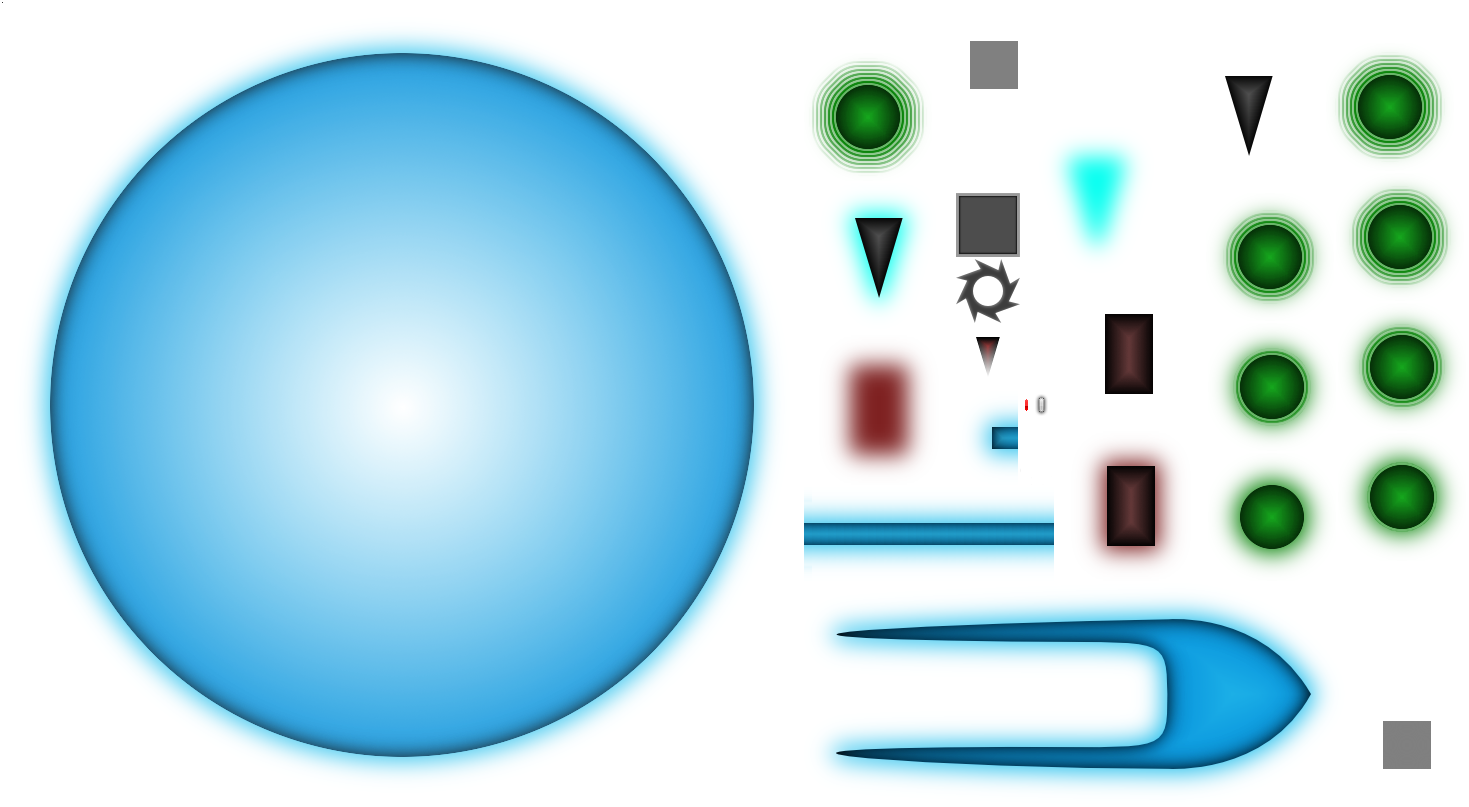
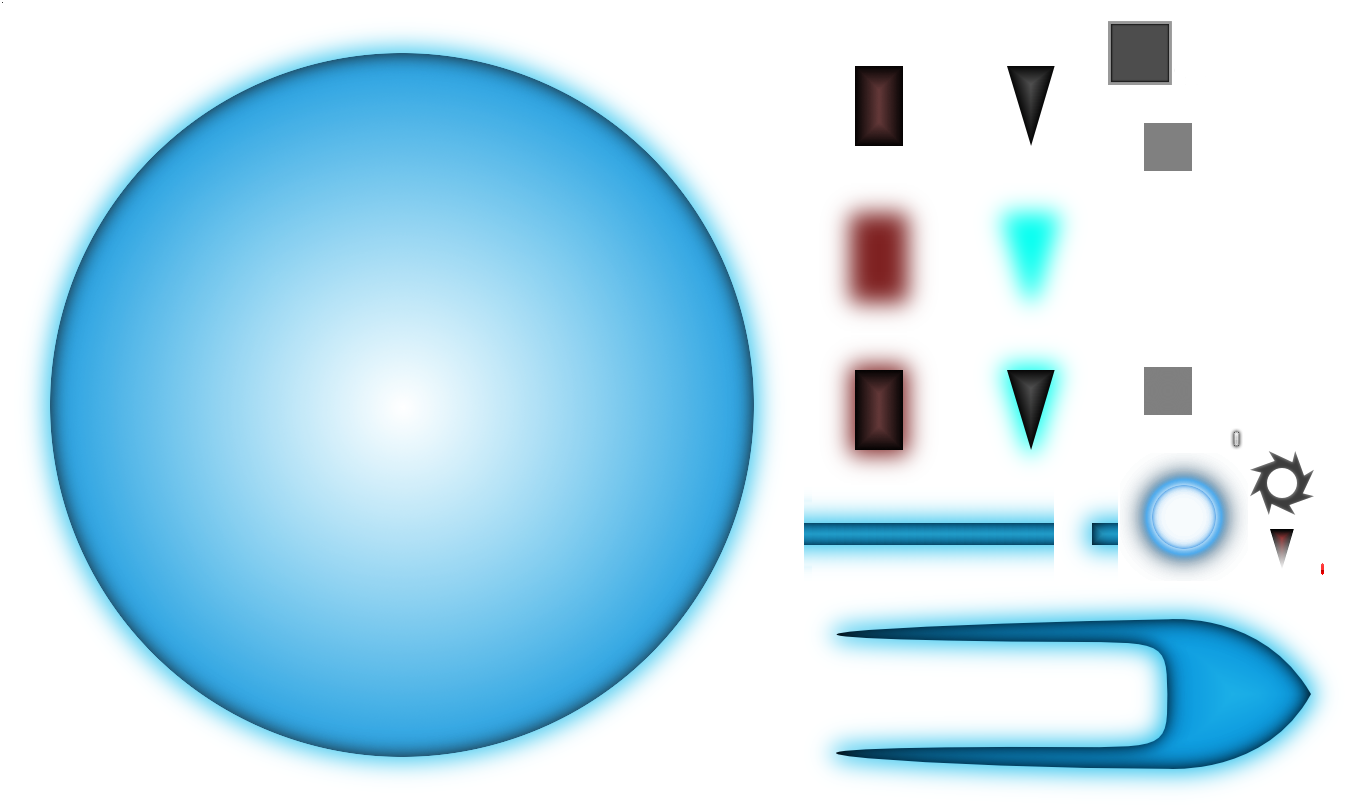
Changed goto cursor

diff --git a/core/src/de/dakror/burst/game/entity/creature/Player.java b/core/src/de/dakror/burst/game/entity/creature/Player.java
@@ -4,6 +4,7 @@ import com.badlogic.gdx.Gdx;
 import com.badlogic.gdx.Input.Buttons;
 import com.badlogic.gdx.Input.Keys;
 import com.badlogic.gdx.InputProcessor;
+import com.badlogic.gdx.graphics.Color;
 import com.badlogic.gdx.graphics.g2d.Batch;
 import com.badlogic.gdx.math.Vector2;
 import com.badlogic.gdx.scenes.scene2d.Actor;
@@ -15,9 +16,6 @@ import de.dakror.burst.game.skill.Skill;
 import de.dakror.burst.game.skill.SkillType;
 import de.dakror.burst.util.D;
 
-/**
- * @author Dakror
- */
 public class Player extends Creature implements InputProcessor
 {
 	final Vector2 tmp = new Vector2();
@@ -136,7 +134,13 @@ public class Player extends Creature implements InputProcessor
 		if (destProgress < destAnimTime && dest.len() > 0)
 		{
 			float size = 64;
-			batch.draw(Burst.img.findRegion("target", Math.abs(Math.round((destProgress % destAnimTime) / destAnimTime * 14) - 7)), dest.x - size / 2, dest.y - size / 2, size, size);
+			Color c = batch.getColor();
+			
+			batch.setColor(1, 1, 1, (float) Math.cos(destProgress * Math.PI / 2 / destAnimTime));
+			
+			batch.draw(Burst.img.findRegion("target"), dest.x - size / 2, dest.y - size / 2, size, size);
+			
+			batch.setColor(c);
 		}
 	}
 	
